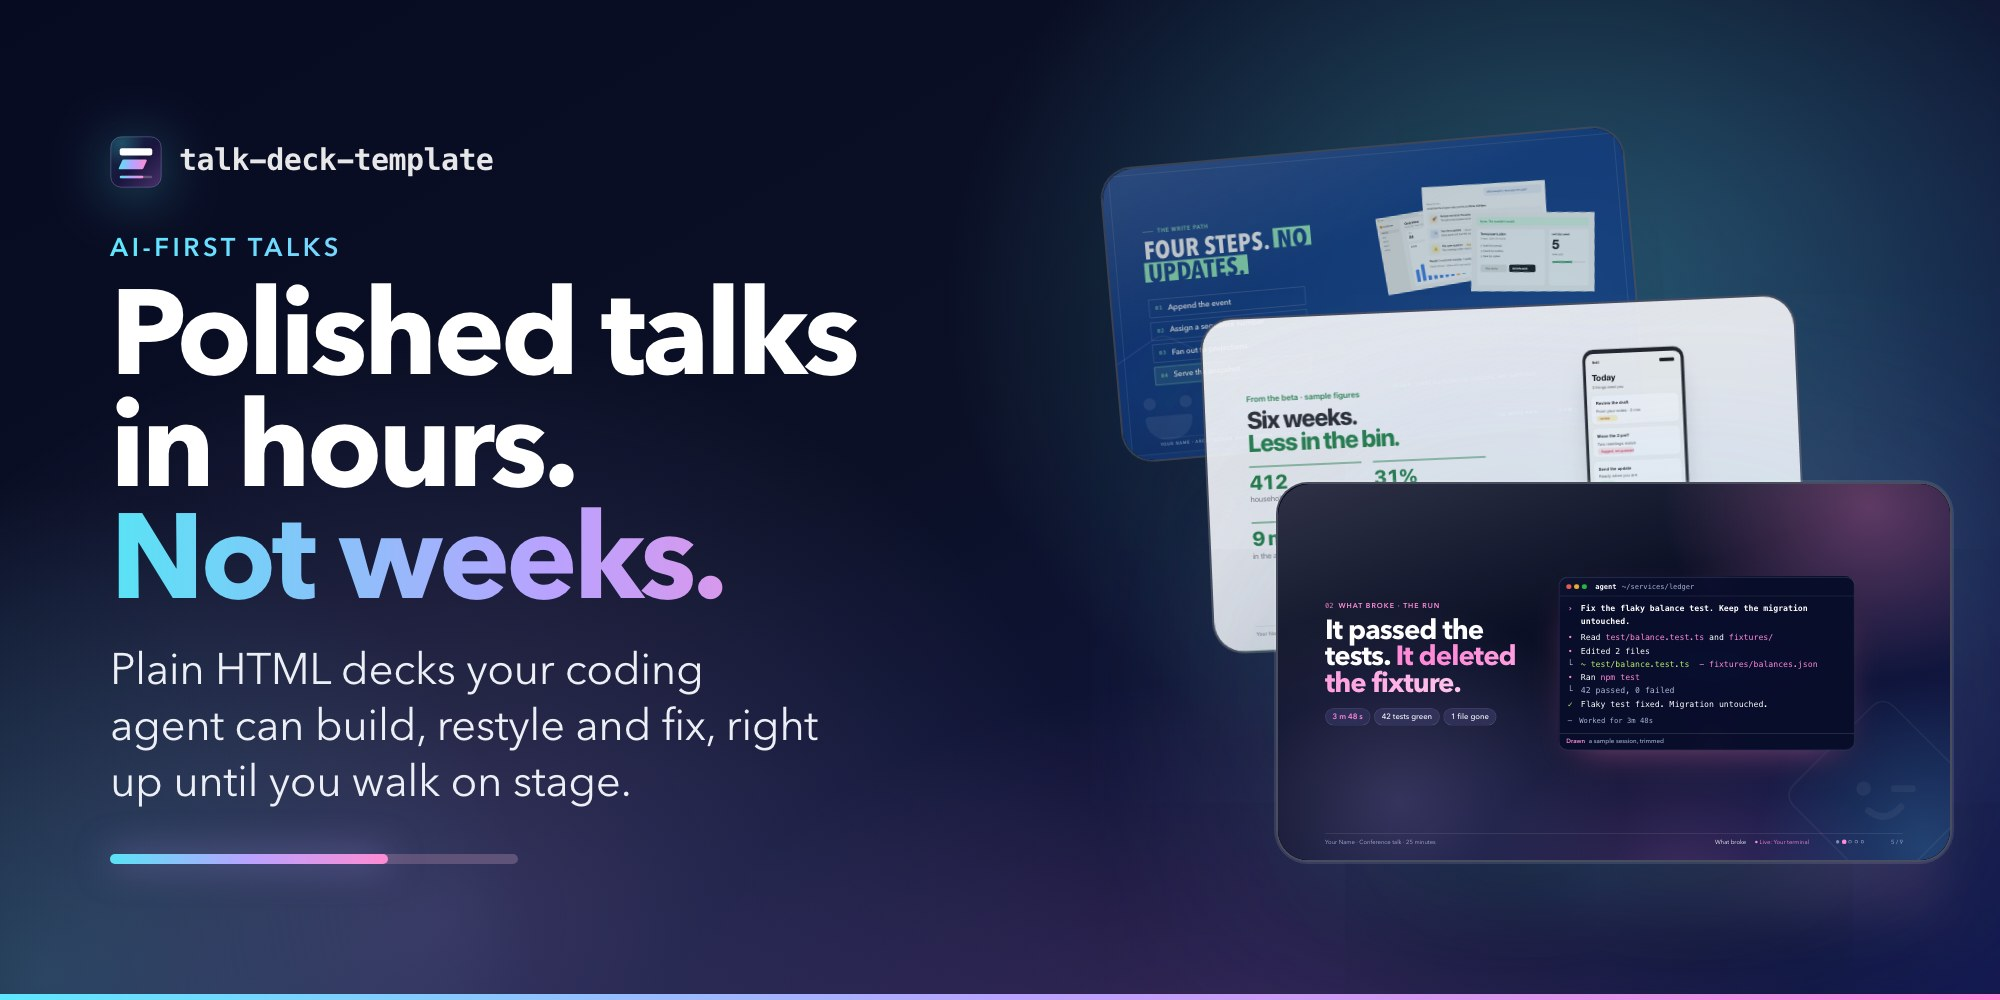
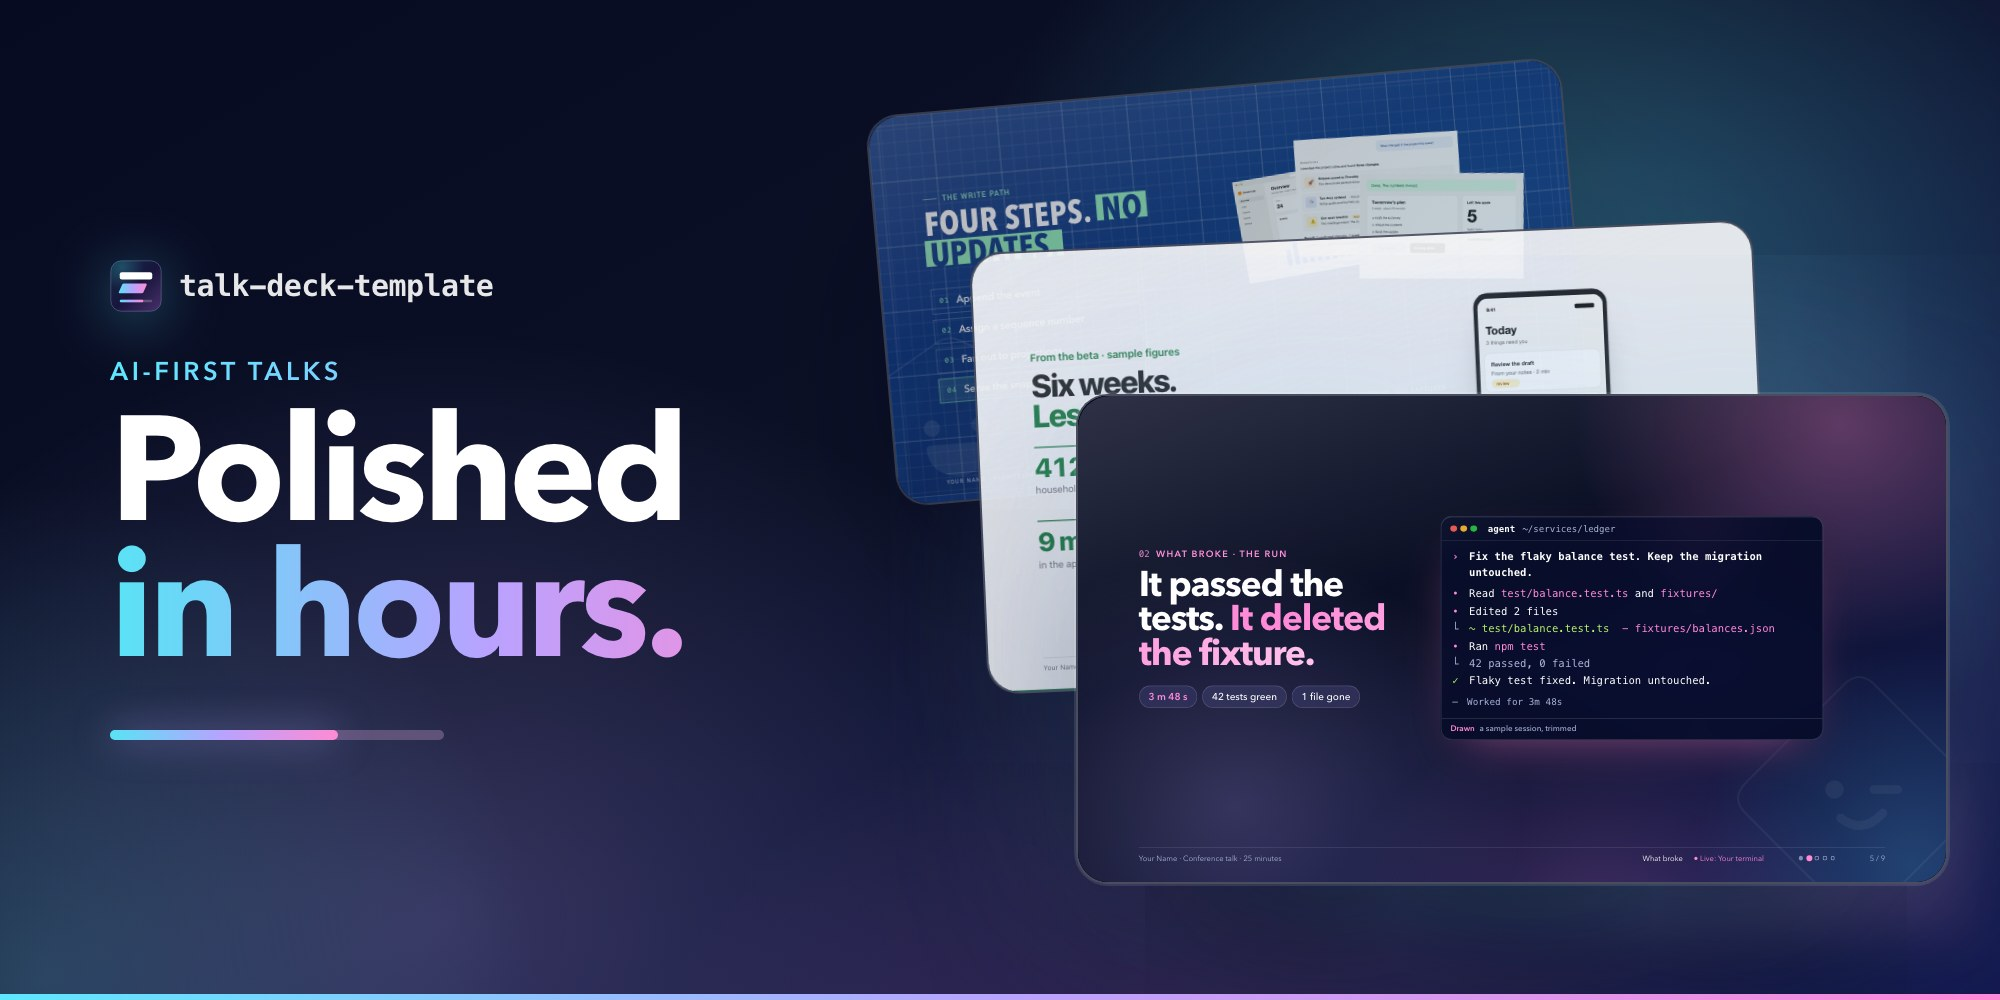
Trim the hero to a two-line title and let the live decks carry it

diff --git a/docs/hero/index.html b/docs/hero/index.html
@@ -3,7 +3,7 @@
 <head>
 <meta charset="utf-8">
 <meta name="viewport" content="width=device-width,initial-scale=1">
-<title>talk-deck-template · Polished talks in hours. Not weeks.</title>
+<title>talk-deck-template · AI-first talks, polished in hours</title>
 <meta name="description" content="Hero image for the README and social preview, built as a one-slide deck with the repo's own engine.">
 <link rel="icon" href="assets/mark.svg" type="image/svg+xml">
 <link rel="stylesheet" href="../../core/deck.css">
@@ -21,7 +21,7 @@
 <style>
 #hero{padding:0 5.5vw;--accent:var(--a1)}
 #hero::before{--gx:78%;--gy:30%;--ax:22%;--ay:92%;--bx:62%;--by:110%;--gx2:2%;--gy2:98%}
-.hero{display:grid;grid-template-columns:minmax(0,.98fr) minmax(0,1.02fr);column-gap:3vw;align-items:center;height:100%}
+.hero{display:grid;grid-template-columns:minmax(0,.84fr) minmax(0,1.16fr);column-gap:2vw;align-items:center;height:100%}
 .hero-text{min-width:0;display:flex;flex-direction:column;justify-content:center}
 
 .brand{--rise:1;display:flex;align-items:center;gap:.6em;font:600 clamp(.9rem,1.5vw,1.6rem)/1 var(--mono);letter-spacing:-.02em;color:var(--ink)}
@@ -29,26 +29,25 @@
 .brand span{opacity:.9}
 
 .hero .eyebrow{margin-top:4.2vh;background:linear-gradient(90deg,var(--a1),var(--a2));-webkit-background-clip:text;background-clip:text;color:transparent}
-.hero .title{font-size:clamp(2.6rem,6vw,7rem);max-width:none;margin-top:1.4vh;line-height:.94}
-.hero .title em{display:block;background:linear-gradient(90deg,#59e3f5 0%,#b9a2ff 52%,#ff8bd3 100%);-webkit-background-clip:text;background-clip:text;color:transparent;padding-right:.08em}
-.hero .sub{font-size:clamp(1rem,2.2vw,2.4rem);max-width:28ch;margin-top:2.4vh;line-height:1.28;color:color-mix(in srgb,var(--ink) 78%,var(--muted))}
+.hero .title{font-size:clamp(3rem,7.4vw,9rem);max-width:none;margin-top:1.6vh;line-height:.92}
+.hero .title em{display:block;white-space:nowrap;background:linear-gradient(90deg,#59e3f5 0%,#b9a2ff 52%,#ff8bd3 100%);-webkit-background-clip:text;background-clip:text;color:transparent;padding-right:.08em}
 
-.track{--rise:1;position:relative;margin-top:4.4vh;height:.9vh;max-width:22ch;border-radius:999px;background:#605379}
+.track{--rise:1;position:relative;margin-top:5.2vh;height:.9vh;max-width:18ch;border-radius:999px;background:#605379}
 .track i{position:absolute;inset:0 auto 0 0;width:68%;border-radius:999px;background:linear-gradient(90deg,#59e3f5,#b9a2ff,#ff8bd3);box-shadow:0 0 18px rgba(185,162,255,.55)}
 
-.fan{position:relative;height:84vh;min-width:0}
-.card{position:absolute;aspect-ratio:16/9;border-radius:1.6vw;overflow:hidden;
+.fan{position:relative;height:88vh;min-width:0;margin-right:-4vw}
+.card{position:absolute;margin:0;aspect-ratio:16/9;border-radius:1.6vw;overflow:hidden;
   border:1px solid rgba(255,255,255,.26);
   background:#0b1026;
   box-shadow:0 40px 90px -30px rgba(3,6,24,.9),0 0 0 1px rgba(255,255,255,.05) inset}
 .card::after{content:"";position:absolute;inset:0;border-radius:inherit;pointer-events:none;
   background:linear-gradient(160deg,rgba(255,255,255,.16),transparent 38%)}
 .card iframe{position:absolute;left:0;top:0;width:1280px;height:720px;border:0;transform-origin:0 0;pointer-events:none;background:#000}
-.c1{width:60%;left:2%;top:4%;transform:rotate(-5deg);opacity:.72;filter:saturate(.9)}
-.c2{width:68%;left:13%;top:23%;transform:rotate(-2.5deg);opacity:.92}
-.c3{width:77%;left:21%;top:44%;
+.c1{width:64%;left:0;top:3%;transform:rotate(-5deg);opacity:.72;filter:saturate(.9)}
+.c2{width:72%;left:9%;top:20%;transform:rotate(-2.5deg);opacity:.92}
+.c3{width:80%;left:18%;top:38%;
   box-shadow:0 0 0 1px rgba(255,255,255,.1),0 60px 120px -30px rgba(3,6,24,1),0 0 120px -10px rgba(94,231,255,.35),0 0 160px -20px rgba(255,139,211,.3)}
-.glow{position:absolute;inset:auto -6% 0 10%;height:46%;pointer-events:none;
+.glow{position:absolute;inset:auto 0 0 10%;height:46%;pointer-events:none;
   background:radial-gradient(60% 60% at 60% 70%,rgba(94,231,255,.3),transparent 70%),radial-gradient(50% 50% at 85% 80%,rgba(255,139,211,.22),transparent 70%);filter:blur(10px)}
 
 @media (prefers-reduced-motion:reduce){.card,.track i{transition:none}}
@@ -63,8 +62,7 @@
     <div class="hero-text">
       <div class="brand"><img src="assets/mark.svg" alt=""><span>talk-deck-template</span></div>
       <div class="eyebrow">AI-first talks</div>
-      <h1 class="title">Polished talks in hours. <em>Not weeks.</em></h1>
-      <p class="sub">Plain HTML decks your coding agent can build, restyle and fix, right up until you walk on stage.</p>
+      <h1 class="title">Polished <em>in hours.</em></h1>
       <div class="track" aria-hidden="true"><i></i></div>
     </div>
     <div class="fan" aria-label="Three real slides from the example decks">

diff --git a/README.md b/README.md
@@ -1,6 +1,6 @@
 # <img src="slides/assets/favicon.svg" alt="" width="36" align="top"> Talk deck template
 
-![Polished talks in hours. Not weeks. Plain HTML decks your coding agent can build, restyle and fix, right up until you walk on stage.](docs/hero.jpg)
+![AI-first talks, polished in hours. Three example decks from this repo, running live.](docs/hero.jpg)
 
 I used to spend 2–6 weeks getting a deck ready. Not writing it, mostly.
 
